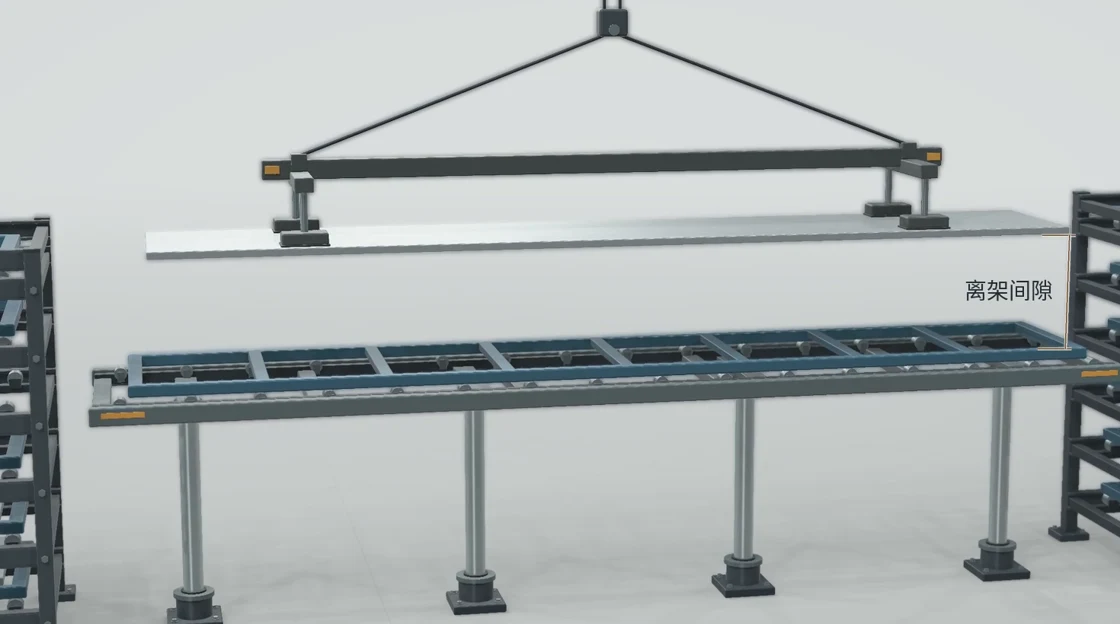
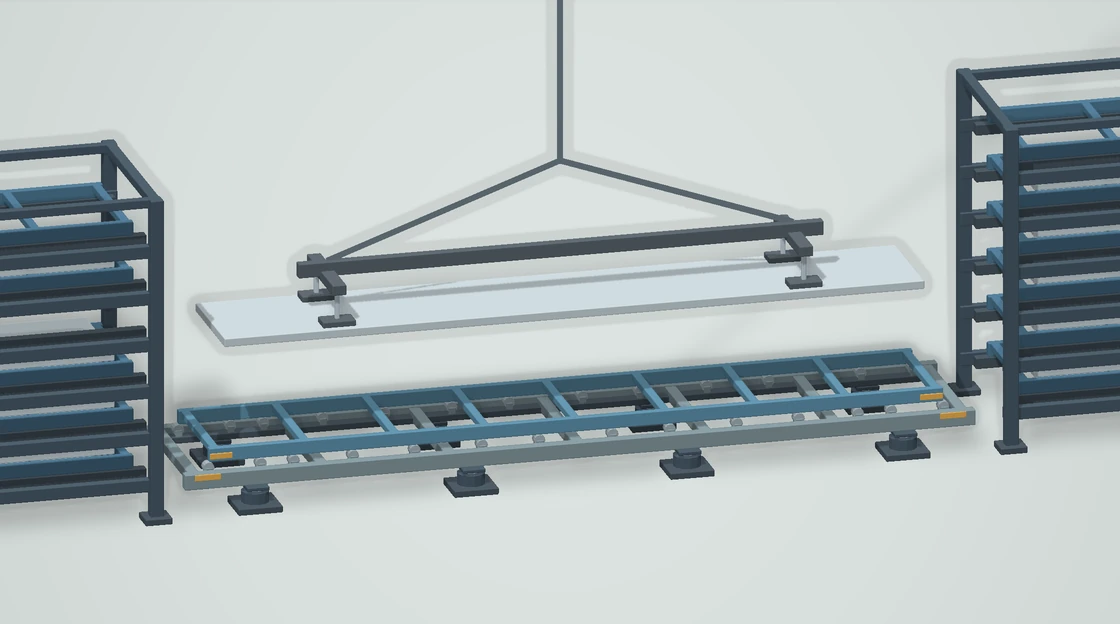
Handle plates on level one with eight mirrored lift cylinders

diff --git a/component/app.js b/component/app.js
@@ -1,19 +1,23 @@
 "use strict";
 
 const isProfile = document.body.dataset.product === "profiles";
-const alignEnd = 1.8, transferEnd = 4.1, craneEnd = 7.3, returnEnd = 9.25;
-const liftOff = 5.15, setDown = 6.23;
-const stepEnds = isProfile ? profileStepEnds : [alignEnd, transferEnd, craneEnd, returnEnd, 10.7];
-const cycleEnd = stepEnds.at(-1);
+const craneDuration = 3.2;
+const plateStepEnds = GEOMETRY.heights.map((height, index) => {
+  const vertical = index === 0 ? 0 : .8 + .4 * (height - GEOMETRY.heights[0]);
+  let end = 0;
+  return [vertical, 2.3, vertical, craneDuration, vertical, 2.05, vertical].map(duration => end += duration);
+});
 const alignStep = ["升降对层", "中央升降架对齐目标层。"];
-const resetStep = ["平台复位", "升降架回到起始高度。"];
+const resetStep = ["平台复位", "活动架归位后，升降架回到第一层。"];
 const plateModes = {
   take: {
     title: "取板",
     steps: [
       alignStep,
       ["带板横移", "钢板随活动架滑上中央滚轮。"],
-      ["行车吊出", "行车吊走板材，活动架留在中央。"],
+      ["降至一层", "升降架托住活动架和钢板，一起降到第一层。"],
+      ["一层吊出", "平台停稳，行车吊走钢板。"],
+      ["升回原层", "升降架托着空活动架回到原层高度。"],
       ["空架归层", "空活动架返回原层。"],
       resetStep,
     ],
@@ -23,7 +27,9 @@ const plateModes = {
     steps: [
       alignStep,
       ["空架横移", "空活动架滑上中央滚轮。"],
-      ["行车放板", "行车将板材放到活动架上，吊具抬起。"],
+      ["降至一层", "升降架托着空活动架降到第一层。"],
+      ["一层放板", "平台停稳，行车将钢板放上活动架，吊具抬起。"],
+      ["升回目标层", "升降架托着活动架和钢板升回目标层。"],
       ["带板归层", "活动架带板返回目标层。"],
       resetStep,
     ],
@@ -37,8 +43,10 @@ const initialRack = () => layerHeights.map((_, index) => index < layerHeights.le
 const initialStock = () => isProfile ? { rack: initialRack() } : { left: initialRack(), right: initialRack() };
 const sideLabel = side => side === "left" ? "左库" : "右库";
 const locationLabel = ({ side, index }) => `${isProfile ? "" : sideLabel(side)}第 ${index + 1} 层`;
-const stepIndex = time => stepEnds.findIndex(end => time < end);
+const stepEndsFor = index => isProfile ? profileStepEnds : plateStepEnds[index ?? plateStepEnds.length - 1];
+const stepIndex = (ends, time) => ends.findIndex(end => time < end);
 const smooth = (time, start, end) => {
+  if (start === end) return Number(time >= end);
   const portion = Math.min(1, Math.max(0, (time - start) / (end - start)));
   return portion * portion * (3 - 2 * portion);
 };
@@ -52,7 +60,13 @@ const fieldHint = document.getElementById("field-hint");
 const pauseButton = document.getElementById("pause");
 const resetButton = document.getElementById("reset");
 const processHeading = document.getElementById("process-heading");
-const stepLabels = [...document.querySelectorAll("#steps li")];
+const stepList = document.getElementById("steps");
+const stepLabels = modes.take.steps.map(() => {
+  const item = document.createElement("li");
+  item.append(document.createElement("span"), document.createElement("small"));
+  stepList.append(item);
+  return item;
+});
 const remaining = document.getElementById("remaining");
 const progress = document.getElementById("progress");
 const statusDot = document.getElementById("status-dot");
@@ -78,31 +92,39 @@ function readScene() {
   const placing = job.mode === "place";
   const sourceX = GEOMETRY.rackX[source];
   const levelZ = GEOMETRY.heights[index];
+  const [alignEnd, transferEnd, lowerEnd, craneEnd, raiseEnd, returnEnd, parkEnd] = plateStepEnds[index];
   const transfer = smooth(time, alignEnd, transferEnd);
-  const returnTray = smooth(time, craneEnd, returnEnd);
+  const returnTray = smooth(time, raiseEnd, returnEnd);
   const trayX = sourceX * (1 - transfer + returnTray);
-  const craneTravel = placing ? 1 - smooth(time, transferEnd, 5.2) : smooth(time, 6.18, craneEnd);
-  const onTray = placing ? time >= setDown : time <= liftOff;
-  const boardLift = onTray ? 0 : 6.6 * craneTravel + 2.4 * (
-    placing ? 1 - smooth(time, 5.16, setDown) : smooth(time, liftOff, 6.18)
+  const stroke = levelZ - base.liftZ;
+  const liftZ = base.liftZ + stroke * (
+    smooth(time, 0, alignEnd) - smooth(time, transferEnd, lowerEnd)
+    + smooth(time, craneEnd, raiseEnd) - smooth(time, returnEnd, parkEnd)
   );
+  // Outside the central bay the rack supports the tray at the selected level.
+  const trayZ = time >= transferEnd && time < raiseEnd ? liftZ : levelZ;
+  const craneTime = time - lowerEnd;
+  const craneTravel = placing ? 1 - smooth(craneTime, 0, 1.1) : smooth(craneTime, 2.08, craneDuration);
+  const onTray = placing ? craneTime >= 2.13 : craneTime <= 1.05;
+  const boardLift = onTray ? 0 : 6.6 * craneTravel + 2.4 * (placing
+    ? 1 - smooth(craneTime, 1.1, 2.13) : smooth(craneTime, 1.05, 2.08));
   const hoistClearance = placing
-    ? 10.4 * smooth(time, 6.38, craneEnd)
-    : 7.2 * (1 - smooth(time, transferEnd + .18, 5.08));
-  const liftTravel = (levelZ - base.liftZ) * smooth(time, 0, 1.56);
+    ? 10.4 * smooth(craneTime, 2.28, craneDuration)
+    : 7.2 * (1 - smooth(craneTime, .18, .98));
   return {
     ...base,
     target: job,
     levelZ,
-    liftZ: base.liftZ + liftTravel * (1 - smooth(time, returnEnd, cycleEnd)),
+    liftZ,
     trayX,
+    trayZ,
     boardX: onTray ? trayX : 0,
     boardY: onTray ? 0 : 9 * craneTravel,
     boardLift,
-    boardVisible: placing ? time >= transferEnd : time < craneEnd,
-    crane: time >= transferEnd && time < craneEnd,
-    craneZ: levelZ + GEOMETRY.plateBase + GEOMETRY.plateThickness + boardLift + hoistClearance,
-    alignGuide: time >= 1.04 && time < alignEnd + .32,
+    boardVisible: placing ? time >= lowerEnd : time < craneEnd,
+    crane: time >= lowerEnd && time < craneEnd,
+    craneZ: base.liftZ + GEOMETRY.plateBase + GEOMETRY.plateThickness + boardLift + hoistClearance,
+    alignGuide: time >= alignEnd && time < alignEnd + .32,
   };
 }
 
@@ -143,7 +165,8 @@ function updateUI() {
   const placing = mode === "place";
   const eligible = placing ? slots.length - loaded : loaded;
   const { title, steps } = modes[mode];
-  const currentStep = job ? stepIndex(job.time) : -1;
+  const ends = stepEndsFor(job?.index ?? lastJob?.index);
+  const currentStep = job ? stepIndex(ends, job.time) : -1;
   remaining.textContent = `${occupiedLabel} ${loaded} · 空层 ${slots.length - loaded}`;
   fieldHint.textContent = `点选${placing ? "空层" : occupiedLabel + "层位"}${title}。层位从下往上编号。`;
   if (isProfile && !job) fieldHint.textContent += `横杆在第 ${profileBarIndex + 1} 层。`;
@@ -187,6 +210,7 @@ function updateUI() {
   pauseButton.textContent = job?.paused ? "继续演示" : "暂停演示";
   processHeading.textContent = `${title}流程`;
   for (const [index, item] of stepLabels.entries()) {
+    item.hidden = ends[index] === (ends[index - 1] ?? 0);
     const current = currentStep === index;
     const done = index < currentStep || (!job && lastJob);
     item.dataset.state = current ? "current" : done ? "done" : "waiting";
@@ -196,8 +220,8 @@ function updateUI() {
     else item.removeAttribute("aria-current");
   }
 
-  progress.max = cycleEnd;
-  progress.value = job?.time ?? (lastJob ? cycleEnd : 0);
+  progress.max = ends.at(-1);
+  progress.value = job?.time ?? (lastJob ? progress.max : 0);
 }
 
 function stopAnimation() {
@@ -209,10 +233,11 @@ function stopAnimation() {
 function tick(now) {
   animationFrame = null;
   if (!job || job.paused) return;
-  const before = stepIndex(job.time);
+  const ends = stepEndsFor(job.index);
+  const before = stepIndex(ends, job.time);
   if (previousTime !== null) job.time += Math.min((now - previousTime) / 1000, .1);
   previousTime = now;
-  if (job.time >= cycleEnd) {
+  if (job.time >= ends.at(-1)) {
     stock[job.side][job.index] = job.mode === "place";
     if (isProfile) profileBarIndex = job.index;
     lastJob = job;
@@ -220,7 +245,7 @@ function tick(now) {
     stopAnimation();
     updateUI();
   } else {
-    if (stepIndex(job.time) !== before) updateUI();
+    if (stepIndex(ends, job.time) !== before) updateUI();
     progress.value = job.time;
     animationFrame = requestAnimationFrame(tick);
   }
@@ -318,7 +343,7 @@ const galleryButtons = document.querySelectorAll("[data-gallery]");
 const galleryImages = document.querySelectorAll(".hero-media [data-pose]");
 const galleryCopy = isProfile
   ? { overview: "型材分层存放在活动架上", transfer: "行车提起前端，沿滚轮外拖", lift: "活动架落在横杆上，行车单独吊走型材" }
-  : { overview: "两侧固定货架与中央升降架", lift: "行车吊起钢板，活动架留在中央工位" };
+  : { overview: "两侧固定货架与中央升降架", lift: "行车在第一层吊走钢板，活动架留在升降架上" };
 
 function selectGalleryPose(pose) {
   for (const image of galleryImages) image.hidden = image.dataset.pose !== pose;

diff --git a/component/index.html b/component/index.html
@@ -15,7 +15,7 @@
           <div class="hero-copy">
             <h1 id="product-title">板材存放库</h1>
             <p class="product-name" lang="en">Plate Storage System</p>
-            <p class="hero-description">钢板在两侧分层平放，中央液压架与选定层位对齐，让行车在同一工位取板、放板。</p>
+            <p class="hero-description">钢板在两侧分层平放。中央升降架从选定层接出活动架，降至第一层后，由行车取板或放板。</p>
             <div class="hero-actions">
               <a class="primary-link" href="#demo"><i class="play-icon" aria-hidden="true"></i>操作三维演示</a>
               <a class="detail-link" href="#system">查看结构</a>
@@ -25,7 +25,7 @@
           <figure class="hero-image">
             <div class="hero-media" id="equipment-gallery">
               <img data-pose="overview" src="./media/storage-system.webp" width="1440" height="630" alt="左右两组货架与中央液压升降架的整机布局">
-              <img data-pose="lift" src="./media/lifting-station.webp" width="1120" height="624" alt="钢板吊起后，活动架留在中央升降架上" hidden>
+              <img data-pose="lift" src="./media/lifting-station.webp" width="1120" height="624" alt="行车从中央第一层吊起钢板，空活动架仍在升降架上" hidden>
             </div>
             <figcaption class="gallery-bar">
               <span class="gallery-caption" aria-live="polite">左右货架与中央工位</span>
@@ -39,7 +39,7 @@
         <dl class="shell specs" aria-label="演示设备布局">
           <div><dt>固定货架</dt><dd>左右两组</dd></div>
           <div><dt>存放层位</dt><dd>每侧 6 层</dd></div>
-          <div><dt>取放工位</dt><dd>中央升降架</dd></div>
+          <div><dt>行车取放工位</dt><dd>中央第一层</dd></div>
         </dl>
       </section>
 
@@ -104,13 +104,7 @@
           </div>
           <section class="process" aria-labelledby="process-heading">
             <h2 id="process-heading">取板流程</h2>
-            <ol id="steps">
-              <li><span></span><small></small></li>
-              <li><span></span><small></small></li>
-              <li><span></span><small></small></li>
-              <li><span></span><small></small></li>
-              <li><span></span><small></small></li>
-            </ol>
+            <ol id="steps"></ol>
           </section>
           <p class="demo-note">三维模型用于说明设备结构和取放原理。</p>
         </div>
@@ -130,7 +124,7 @@
             <dl class="components">
               <div><dt>固定架</dt><dd>左右货架分别支承六层活动架，让钢板分层平放。</dd></div>
               <div><dt>活动架</dt><dd>承托钢板横移至中央工位。取板后空架归层，放板后带板归层。</dd></div>
-              <div><dt>液压升降架</dt><dd>升降至目标层，让中央滚轮与货架上的活动架对齐。</dd></div>
+              <div><dt>液压升降架</dt><dd>前后各 4 个液压缸同步升降。中央滚轮在选定层接架，平台在第一层停稳，供行车取板、放板。</dd></div>
             </dl>
           </div>
         </div>

diff --git a/component/scene.js b/component/scene.js
@@ -139,13 +139,14 @@ function addReceiverRollers(mesh, y, z, centerX = 0, offsets = plateRollerOffset
 }
 
 function addLift(mesh, z) {
-  for (const x of GEOMETRY.cylinders) {
-    addBox(mesh, x, 0, .039, .51, .51, .078, "rail");
-    addCylinder(mesh, x, 0, .078, .295, .16, "rack");
-    addCylinder(mesh, x, 0, .292, z - .215, .082, "piston");
-    addBox(mesh, x, 0, z - .192, .26, .31, .103, "rack");
-  }
+  const railBottom = z - .158 - .18 / 2;
   for (const y of [-.84, .84]) {
+    for (const x of GEOMETRY.cylinders) {
+      addBox(mesh, x, y, .039, .51, .51, .078, "rail");
+      addCylinder(mesh, x, y, .078, .205, .16, "rack");
+      addCylinder(mesh, x, y, .205, railBottom - .046, .082, "piston");
+      addBox(mesh, x, y, railBottom - .023, .26, .31, .046, "rack");
+    }
     addBox(mesh, 0, y, z - .158, 9.08, .13, .18, "lift");
     for (const x of [-4.28, 4.28]) {
       addBox(mesh, x, y + Math.sign(y) * .069, z - .109, .30, .015, .069, "marker");
@@ -234,8 +235,8 @@ class Scene {
     }
     addLift(mesh, state.liftZ);
     if (state.target) {
-      addTray(mesh, state.trayX, state.levelZ, true);
-      if (state.boardVisible) addPlate(mesh, state.boardX, state.boardY, state.levelZ + state.boardLift);
+      addTray(mesh, state.trayX, state.trayZ, true);
+      if (state.boardVisible) addPlate(mesh, state.boardX, state.boardY, state.trayZ + state.boardLift);
     }
     if (state.crane) addSpreader(mesh, state.boardY, state.craneZ);
     return mesh;

diff --git a/component/style.css b/component/style.css
@@ -251,7 +251,8 @@ body[data-product="profiles"] .components > div:nth-child(3) dt::before { backgr
 .actions button:disabled { color: #687983; background: #f2f5f6; border-color: #dce3e6; }
 
 .process { margin-top: 18px; padding: clamp(16px, 1.8vw, 23px); }
-.process ol { display: grid; grid-template-columns: repeat(5, 1fr); gap: 5px; list-style: none; padding: 0; margin-top: 16px; }
+.process ol { display: grid; grid-auto-flow: column; grid-auto-columns: minmax(0, 1fr); gap: 5px; list-style: none; padding: 0; margin-top: 16px; }
+.process li[hidden] { display: none; }
 .process li { padding: 11px 12px 8px; border-top: 3px solid #d5dfe5; }
 .process li span { display: block; color: #2c414f; font-size: 15px; font-weight: 650; }
 .process li small { display: block; font-size: 13px; color: #50636f; line-height: 1.55; margin-top: 4px; }
@@ -275,7 +276,7 @@ body[data-product="profiles"] .components > div:nth-child(3) dt::before { backgr
   .workspace { grid-template-columns: 1fr; gap: 12px; }
   .stage { min-height: clamp(230px, 50vw, 360px); }
   .process { margin-top: 12px; }
-  .process ol { grid-template-columns: repeat(auto-fit, minmax(min(100%, 124px), 1fr)); }
+  .process ol { grid-auto-flow: row; grid-template-columns: repeat(auto-fit, minmax(min(100%, 124px), 1fr)); }
 }
 @media (max-width: 650px) {
   :root { --shell: calc(100% - 36px); }
